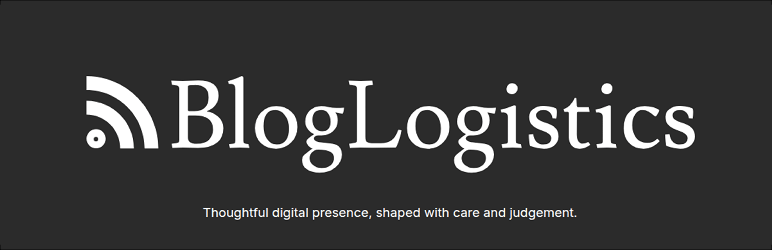
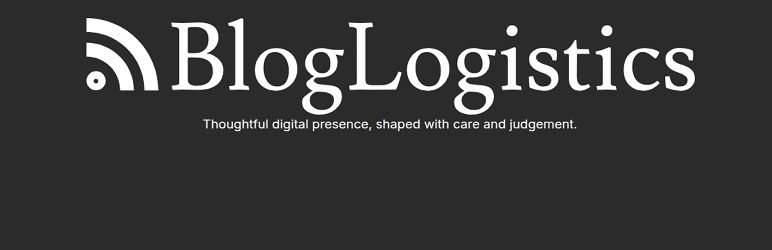
Add details tabs and author metadata for 1.2.5

diff --git a/bloglogistics-remove-comment-feed.php b/bloglogistics-remove-comment-feed.php
@@ -3,7 +3,7 @@
  * Plugin Name:       BlogLogistics Remove Comment Feed
  * Plugin URI:        https://github.com/bloglogisticsdev/bloglogistics-remove-comment-feed
  * Description:       Removes comment feed links and blocks direct access to WordPress comment feed URLs while leaving normal post feeds available.
- * Version:           1.2.4
+ * Version:           1.2.5
  * Requires at least: 7.0
  * Requires PHP:      8.3
  * Author:            BlogLogistics
@@ -18,7 +18,7 @@ if ( ! defined( 'ABSPATH' ) ) {
 	exit;
 }
 
-define( 'BLOGLOGISTICS_RCF_VERSION', '1.2.4' );
+define( 'BLOGLOGISTICS_RCF_VERSION', '1.2.5' );
 define( 'BLOGLOGISTICS_RCF_SLUG', 'bloglogistics-remove-comment-feed' );
 define( 'BLOGLOGISTICS_RCF_FILE', __FILE__ );
 define( 'BLOGLOGISTICS_RCF_DIR', plugin_dir_path( __FILE__ ) );

diff --git a/assets/index.php b/assets/index.php
@@ -1,0 +1,2 @@
+<?php
+// Silence is golden.

diff --git a/README.md b/README.md
@@ -24,7 +24,41 @@ The plugin does not create public pages and does not add replacement links to th
 - Reset the blocked-feed message to the default.
 - Uses the BlogLogistics manifest update system.
 
+## Installation
+
+1. Upload the plugin folder to `/wp-content/plugins/` or install the ZIP through WordPress.
+2. Activate the plugin.
+3. Go to **BlogLogistics > Remove Comment Feed**.
+4. Confirm that comment feeds are disabled and customize the blocked-feed message if needed.
+
+## FAQ
+
+### Does this disable normal WordPress feeds?
+
+No. This plugin blocks comment feeds only. Normal post, category, tag, and author feeds remain available.
+
+### What happens when someone visits a comment feed URL directly?
+
+They see the blocked-feed message configured under **BlogLogistics > Remove Comment Feed**.
+
+### Can I customize the blocked-feed message?
+
+Yes. Go to **BlogLogistics > Remove Comment Feed** and edit the message shown when someone opens a blocked comment feed URL.
+
+### Does this plugin create public pages or replacement links?
+
+No. It removes comment feed links and blocks comment feed URLs. It does not create public pages or add replacement links.
+
+### Does this plugin use the BlogLogistics update system?
+
+Yes. Updates are served through the BlogLogistics manifest-based update system.
+
 ## Changelog
+
+### 1.2.5
+
+- Add Installation and FAQ metadata to the plugin details modal.
+- Add linked BlogLogistics author metadata to the generated update manifest.
 
 ### 1.2.4
 